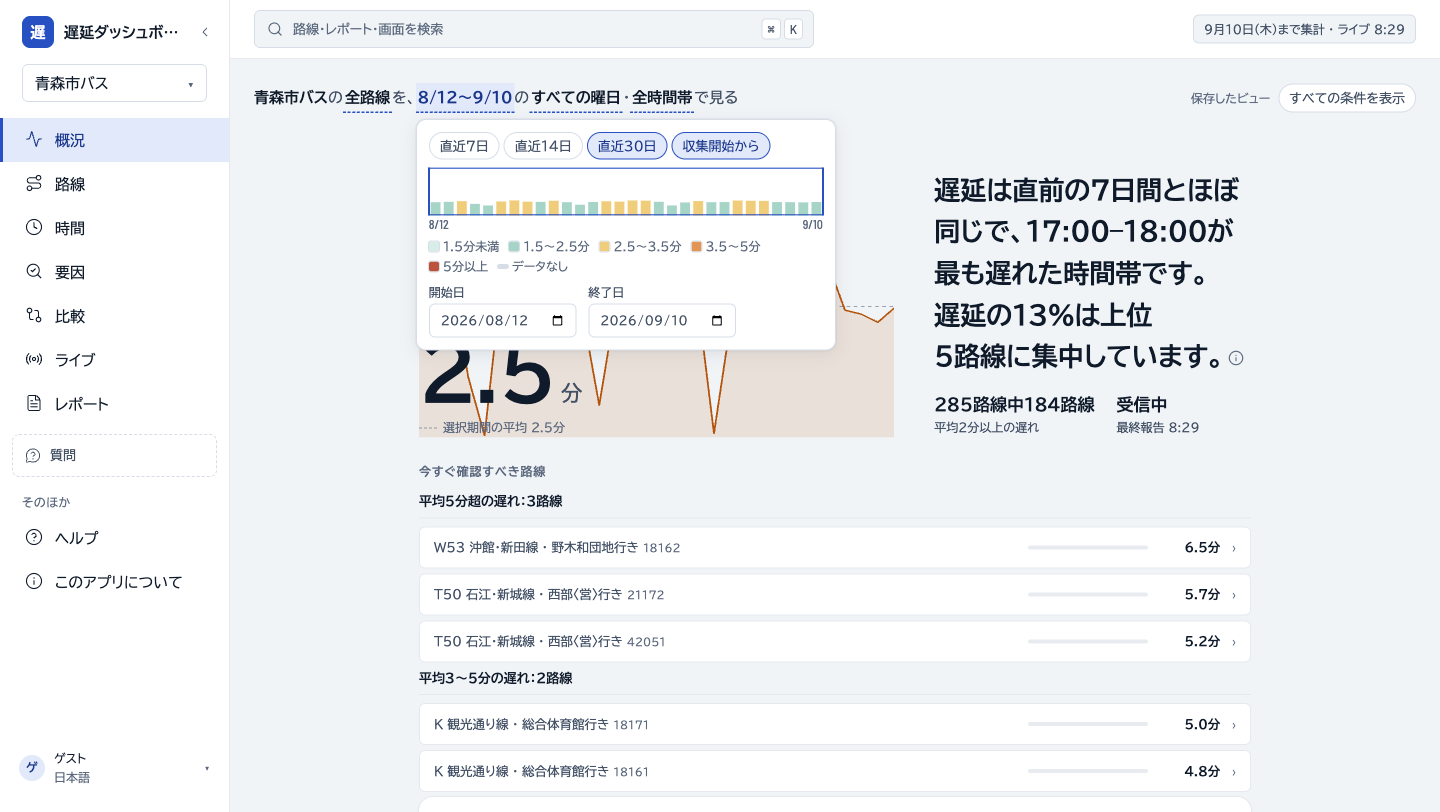
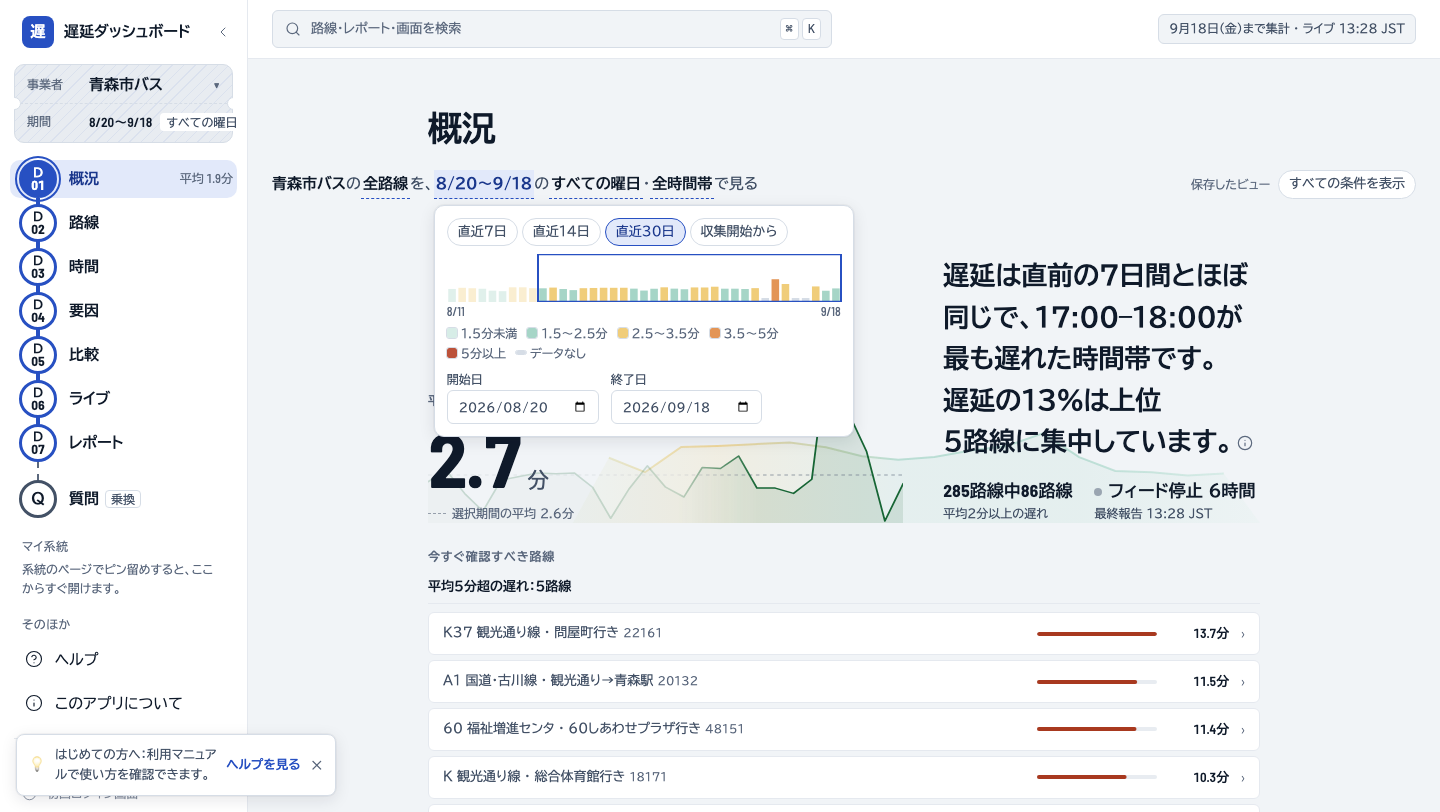
docs(user-manual): refresh all 13 screenshots for the current UI
Every screenshot in the user manual predated the sidebar's numbered
step-badge redesign (D01-D07/Q, "マイ系統" pinning, the 管理 admin link)
and, in the live-map scene specifically, the vehicle-clustering feature
this session's own fix/live-map-cluster-flicker PR just removed -- the
manual's images had drifted well behind the real app.

Recaptured all 26 files (13 scenes x ja/en) against the actual running
app, as a guest session (matching how the originals were captured --
login_required was toggled off for the capture, then restored), using a
new headless Playwright script. Updated both locale files' one line of
literal, data-specific prose (the intro's captured date range) to match;
every other sentence in the manual already described the UI generically
rather than quoting this dataset's own numbers, so no further text
changes were needed. Confirmed via the existing lint:i18n screenshot-
presence/locale-match test.

diff --git a/frontend/public/user-manual/ja.md b/frontend/public/user-manual/ja.md
@@ -2,7 +2,7 @@
 
 このマニュアルは、遅延ダッシュボードを初めて使う方向けに、画面ごとの使い方を順に説明します。
 
-画面写真には、青森市バスの2026年8月12日〜9月10日の実データを、9月11日の朝に見た状態で使っています。どの事業者でも画面の使い方は同じです。事業者のフィードが送っていないデータが必要なレポートでは、画面にその旨が表示されます。
+画面写真には、青森市バスの2026年8月20日〜9月18日の実データを、9月18日の午後に見た状態で使っています。どの事業者でも画面の使い方は同じです。事業者のフィードが送っていないデータが必要なレポートでは、画面にその旨が表示されます。
 
 ---
 

diff --git a/frontend/public/user-manual/en.md b/frontend/public/user-manual/en.md
@@ -2,7 +2,7 @@
 
 This manual walks through the Delay Dashboard screen by screen, for anyone using it for the first time.
 
-The screenshots use real data from Aomori City Bus (青森市バス) for 12 August – 10 September 2026, seen on the morning of 11 September. Every agency’s screens work the same way; where a report needs data that an agency’s feed does not send, the screen says so.
+The screenshots use real data from Aomori City Bus (青森市バス) for 20 August – 18 September 2026, seen on the afternoon of 18 September. Every agency’s screens work the same way; where a report needs data that an agency’s feed does not send, the screen says so.
 
 ---
 
